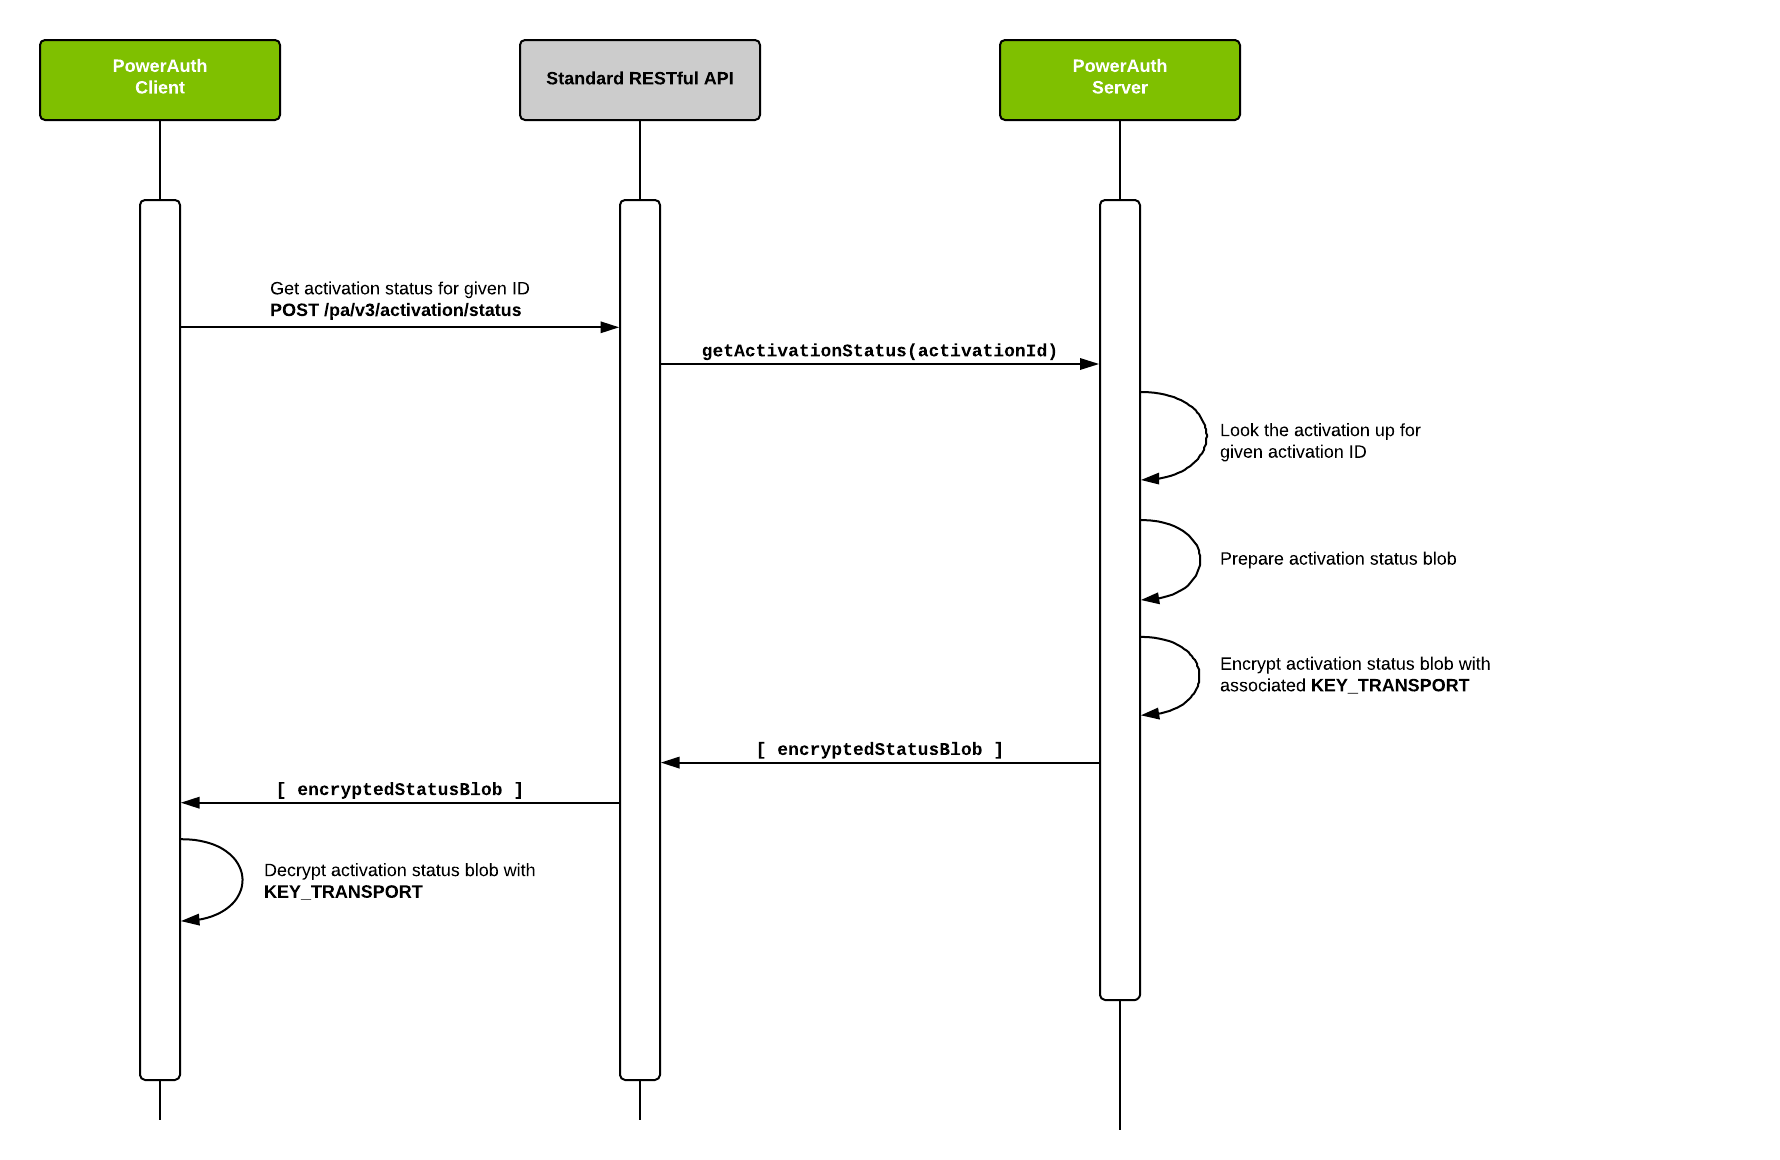
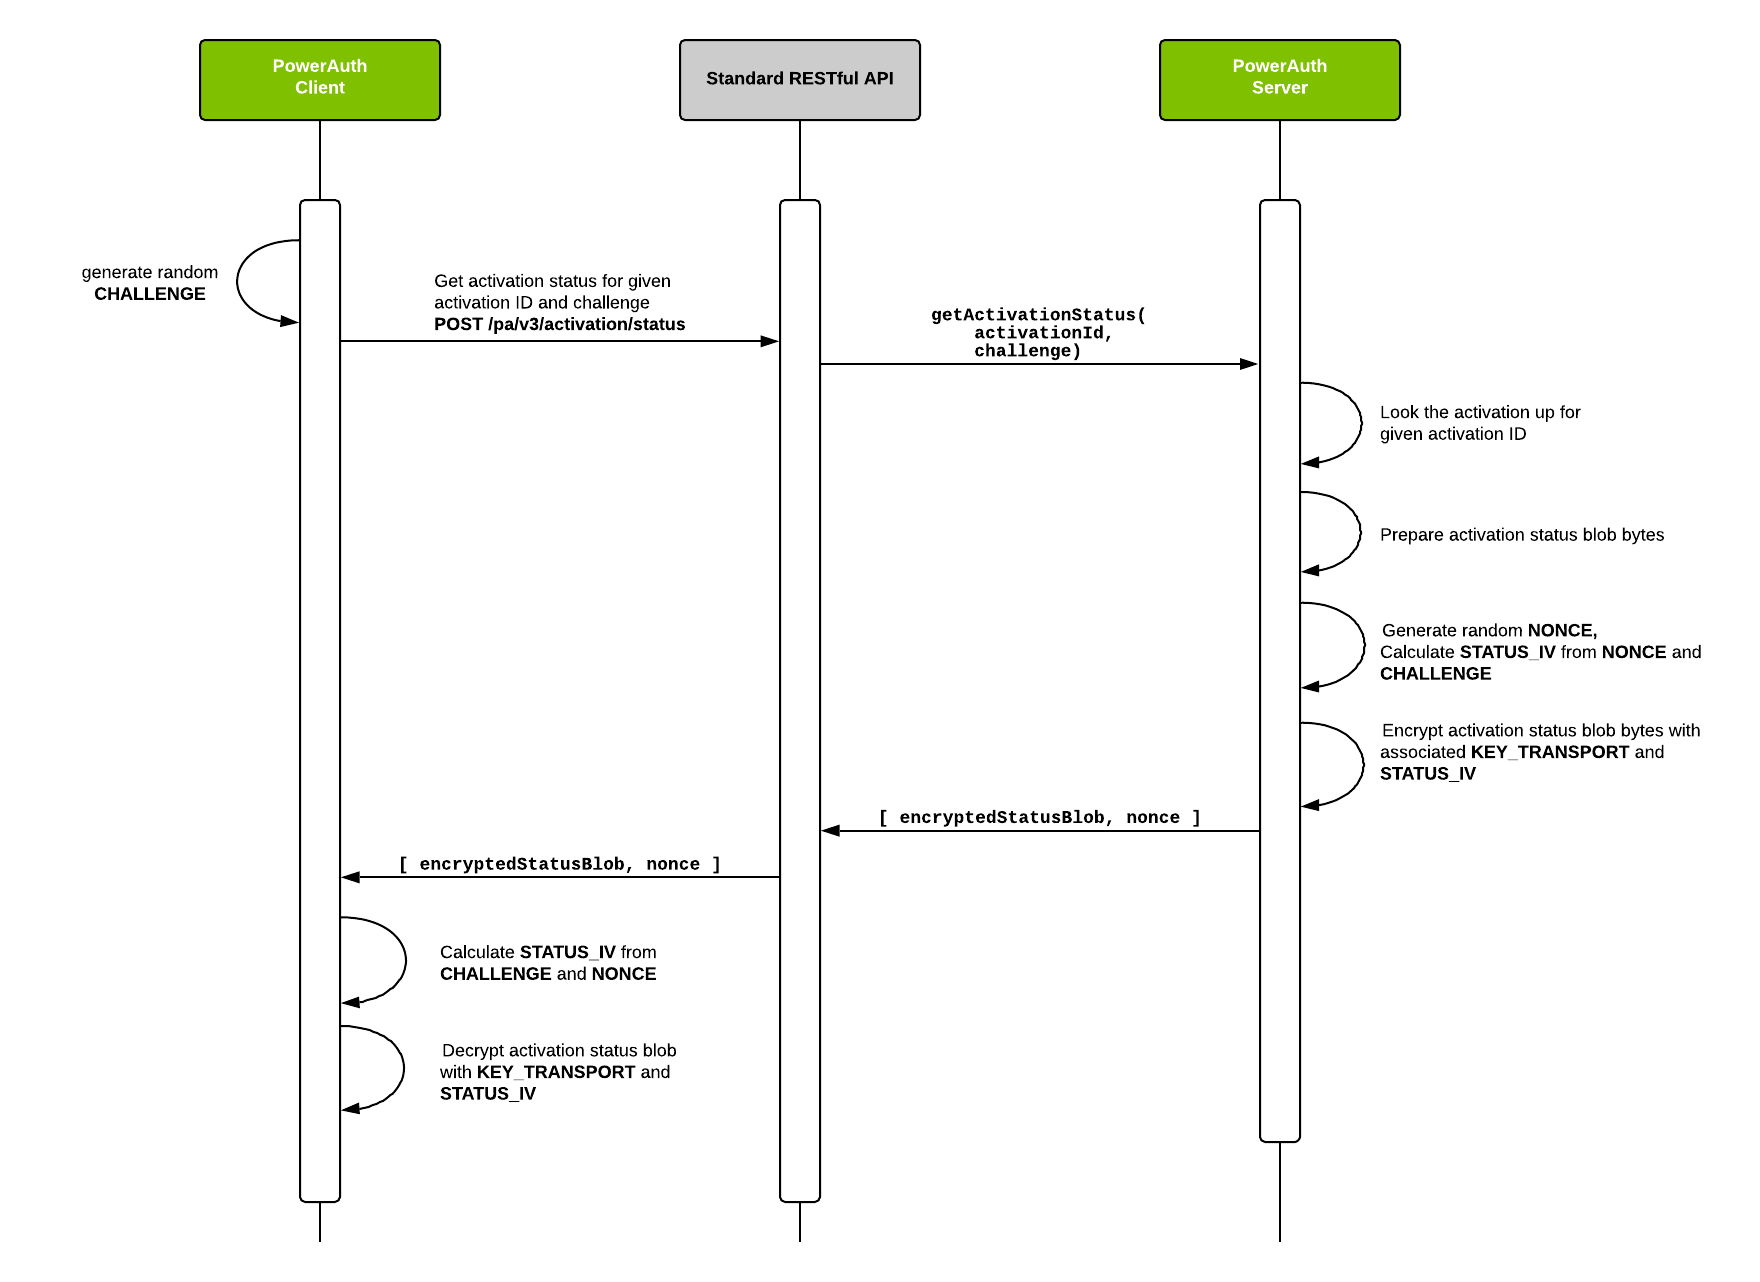
Fix #291: Added V3.1 protocol documentation

diff --git a/docs/Computing-and-Validating-Signatures.md b/docs/Computing-and-Validating-Signatures.md
@@ -18,41 +18,67 @@ PowerAuth signature is in principle multi-factor - it uses all keys as defined i
 - **3FA** - all three factors are used
 	- `possession_knowledge_biometry` - Signature uses three keys: a possession related key `KEY_SIGNATURE_POSSESSION`, then knowledge related key `KEY_SIGNATURE_KNOWLEDGE`, and finally biometry related key `KEY_SIGNATURE_BIOMETRY`.
 
-When using more than one factor / key, the keys are added additively in the signature algorithm, so that the factors can be validated individually. The resulting PowerAuth signature is a sequence of one to three numeric strings with 8 digits (each sequence is separated by "-" character) that is obtained in following manner:
+When using more than one factor / key, the keys are added additively in the signature algorithm, so that the factors can be validated individually. The resulting PowerAuth signature can be then represented in two different formats:
+
+1. For online validation, PowerAuth signature is one Base64 string, which length depends on the number of factors involved in the calculation (16, 32 or 48 bytes encoded in Base64) 
+1. For offline validation purposes, PowerAuth signature is a sequence of one to three numeric strings with 8 digits (each sequence is separated by “-“ character)
+
+Both formats share the same core algorithm to calculate the signature components:
 
 ```java
 /**
- * Compute the signature for given data using provided keys and current counter.
+ * Compute the signature components for given data using provided keys and current counter.
  * @param data - data to be signed
  * @param signatureKey - array of symmetric keys used for signature
  * @param CTR_DATA - hash based counter
  */
-public String computeSignature(byte[] data, List<SecretKey> signatureKeys, byte[] CTR_DATA) {
+List<byte[]> computeSignatureComponents(byte[] data, List<SecretKey> signatureKeys, byte[] CTR_DATA) {
+    // ... compute signature components
+    List<byte[]> signatureComponents = new ArrayList<byte[]>();
+    for (int i = 0; i < signatureKeys.size(); i++) {
+        byte[] KEY_SIGNATURE = KeyConversion.secretKeyFromBytes(signatureKey.get(0));
+        byte[] KEY_DERIVED = Mac.hmacSha256(KEY_SIGNATURE, CTR_DATA);
 
-	// ... compute signature components
-	String[] signatureComponents = new String[signatureKeys.size()];
-	for (int i = 0; i < signatureKeys.size(); i++) {
-		byte[] KEY_SIGNATURE = KeyConversion.secretKeyFromBytes(signatureKey.get(0));
-		byte[] KEY_DERIVED = Mac.hmacSha256(KEY_SIGNATURE, CTR_DATA);
+        // ... compute signature key using more than one keys, at most 2 extra keys
+        // ... this skips the key with index 0 when i == 0
+        for (int j = 0; j < i; j++) {
+            KEY_SIGNATURE = KeyConversion.secretKeyFromBytes(signatureKey.get(j + 1));
+            KEY_DERIVED_CURRENT = Mac.hmacSha256(KEY_SIGNATURE, CTR_DATA);
+            KEY_DERIVED = Mac.hmacSha256(KEY_DERIVED_CURRENT, KEY_DERIVED);
+        }
+        // ... sign the data
+        byte[] SIGNATURE_COMPONENT = Mac.hmacSha256(KEY_DERIVED, DATA);
+        // ... keep it in the list
+        signatureComponents.add(SIGNATURE_COMPONENT);
+    }
+    return signatureComponents;
+}
+```
 
-		// ... compute signature key using more than one keys, at most 2 extra keys
-		// ... this skips the key with index 0 when i == 0
-		for (int j = 0; j < i; j++) {
-			KEY_SIGNATURE = KeyConversion.secretKeyFromBytes(signatureKey.get(j + 1));
-			KEY_DERIVED_CURRENT = Mac.hmacSha256(KEY_SIGNATURE, CTR_DATA);
-			KEY_DERIVED = Mac.hmacSha256(KEY_DERIVED_CURRENT, KEY_DERIVED);
-		}
+### Signing HTTP requests
 
-		// ... sign the data
-		byte[] SIGNATURE_LONG = Mac.hmacSha256(KEY_DERIVED, DATA);
+PowerAuth signature for online purposes can be obtained in following manner:
 
-		// ... decimalize the signature component
-		int signComponent = (TRUNCATE(SIGNATURE_LONG, 4) & 0x7FFFFFFF) % Math.pow(10,8);
-		signatureComponents[i] = String.valueOf(signComponent);
-	}
-
-	// ... join the signature component using "-" character.
-	return String.join("-", signatureComponents);
+```java
+/**
+ * Compute the signature for HTTP request purposes for given data using provided keys and current counter.
+ * @param data - data to be signed
+ * @param signatureKey - array of symmetric keys used for signature
+ * @param CTR_DATA - hash based counter
+ */
+String computeOnlineSignature(byte[] data, List<SecretKey> signatureKeys, byte[] CTR_DATA) {
+    // ... at first, calculate signature components
+    List<byte[]> signatureBinaryComponents = computeSignatureComponents(data, signatureKeys, CTR_DATA);  
+      
+    // ... now convert components into one Base64 string
+    byte[] signatureBytes = new byte[signatureKeys.size() * 16];
+    for (int i = 0; i < signatureComponents.size(); i++) {
+        byte[] SIGNATURE_COMPONENT = signatureBinaryComponents.get(i);
+        // ... append last 16 bytes from SIGNATURE_COMPONENT to signature bytes        
+        ByteUtils.copy(SIGNATURE_COMPONENT, 16, signatureBytes, i * 16, 16);
+    }
+    // ... final conversion to Base64
+	return Base64.encode(signatureBytes);
 }
 ```
 
@@ -63,10 +89,41 @@ X-PowerAuth-Authorization: PowerAuth
 	pa_activation_id="7a24c6e9-48e9-43c2-ab4a-aed6270e924d",
 	pa_application_key="Z19gyYaW5kb521fYWN0aXZ==",
 	pa_nonce="kYjzVBB8Y0ZFabxSWbWovY==",
-	pa_signature_type="possession_knowledge_biometry"
-	pa_signature="12345678-12345678-12345678",
-	pa_version="3.0"
+	pa_signature_type="possession_knowledge"
+	pa_signature="MDEyMzQ1Njc4OWFiY2RlZjAxMjM0NTY3ODlhYmNkZWY=",
+	pa_version="3.1"
 ```
+
+### Offline signature
+
+The computation of offline signature is similar, but the final string is more human readable and can be easily manually retyped: 
+
+```java
+/**
+ * Compute the offline signature for given data using provided keys and current counter.
+ * @param data - data to be signed
+ * @param signatureKey - array of symmetric keys used for signature
+ * @param CTR_DATA - hash based counter
+ */
+String computeOfflineSignature(byte[] data, List<SecretKey> signatureKeys, byte[] CTR_DATA) {
+    // ... at first, calculate signature components
+    List<byte[]> signatureBinaryComponents = computeSignatureComponents(data, signatureKeys, CTR_DATA);
+	
+	// ... compute signature components
+	String[] signatureComponents = new String[signatureKeys.size()];
+    for (int i = 0; i < signatureComponents.size(); i++) {
+        byte[] SIGNATURE_COMPONENT = signatureBinaryComponents.get(i);
+        // ... decimalize the signature component
+        int decimalized = (ByteUtils.getInt(ByteUtils.truncate(SIGNATURE_COMPONENT, 4)) & 0x7FFFFFFF) % Math.pow(10,8);
+        signatureStrings[i] = String.valueOf(decimalized);
+	}
+    // ... join the signature component using "-" character.
+    return String.join("-", signatureComponents);
+}
+```
+
+PowerAuth Client displays the signature on the screen and then the user has to manually retype that string into another PowerAuth powered application (e.g. typically to web application, connected to PowerAuth Server).
+
 ## Normalized Data for HTTP Requests
 
 Normalized data to be signed are built using the following procedure:
@@ -109,10 +166,10 @@ PowerAuth Server can validate the signature using the following mechanism:
 1. Compute the expected signature for obtained data and check if the expected signature matches the one sent with the client. Since the PowerAuth Client may be ahead with counter from PowerAuth Server, server should try couple extra indexes ahead:
 
 ```java
-// input: CTR, CTR_DATA, TOLERANCE, data and signatureKeys
+// input: CTR, CTR_DATA, CTR_LOOK_AHEAD, data and signatureKeys
 boolean VERIFIED = false
 byte[] CTR_DATA_ITER = CTR_DATA
-for (CRT_ITER = CTR; CTR_ITER++; CRT_ITER < CRT + TOLERANCE) {
+for (CRT_ITER = CTR; CTR_ITER++; CRT_ITER < CRT + CTR_LOOK_AHEAD) {
     //... compute signature for given CTR_DATA_ITER, data and signature keys (see the algorithm above)
     String SIGNATURE = computeSignature(data, signatureKeys, CTR_DATA_ITER);
     if (SIGNATURE.equals(SIGNATURE_PROVIDED) && !VERIFIED) {

diff --git a/docs/Activation-Status.md b/docs/Activation-Status.md
@@ -4,18 +4,43 @@ PowerAuth Client may need to check for an activation status, so that it can dete
 
 ## Flow of the Activation Status Check
 
-Checking for an activation status is simple. Client needs to prepare a HTTP request with an activation ID. No cryptography is required in this step - in principle, any client can ask for status of any activation ID. Server processes the request and sends back the response with activation status blob. Activation status blob is an encrypted binary blob that encodes activation status. Key `KEY_TRANSPORT` is used to encrypt the activation blob.
+Checking for an activation status is simple. Client needs to prepare a HTTP request with an activation ID and random `STATUS_CHALLENGE`. Server processes the request and sends back the response with activation status blob and random `STATUS_NONCE`. Activation status blob is an encrypted binary blob that encodes activation status. Key `KEY_TRANSPORT` and `STATUS_IV` is used to encrypt the activation blob.
 
 Following sequence diagram shows the activation status check in more detail.
 
 ![Check Activation Status](./resources/images/sequence_activation_status.png)
 
+## Status Blob Encryption
+
+1. Both, client and server calculate `KEY_TRANSPORT_IV` as:
+    ```java
+    SecretKey KEY_TRANSPORT_IV = KDF.derive(KEY_TRANSPORT, 3000)
+    ```
+1. Client choose random 16 bytes long `STATUS_CHALLENGE` and send that value to the server.
+1. Server choose random 16 bytes long `STATUS_NONCE` and calculates `STATUS_IV` as:
+   ```java
+   byte[] STATUS_NONCE = Generator.randomBytes(16)
+   SecretKey STATUS_CHALLENGE_KEY = KDF_INTERNAL.derive(KEY_TRANSPORT_IV, STATUS_CHALLENGE)
+   byte[] STATUS_IV = ByteUtils.xor(STATUS_NONCE, KeyConversion.getBytes(STATUS_CHALLENGE_KEY))
+   ```
+1. Server uses `KEY_TRANSPORT` as key and `STATUS_IV` as IV to encrypt the status blob:
+   ```java
+   encryptedStatusBlob = AES.encrypt(statusBlob, STATUS_IV, KEY_TRANSPORT, "AES/CBC/NoPadding")
+   ```
+1. Server sends `encryptedStatusBlob` and `STATUS_NONCE` as response to the client.   
+1. Client receives `encryptedStatusBlob` and `STATUS_NONCE` and calculates the same `STATUS_IV` and then decrypts the status data:
+   ```java
+   SecretKey STATUS_CHALLENGE_KEY = KDF_INTERNAL.derive(KEY_TRANSPORT_IV, STATUS_CHALLENGE)
+   byte[] STATUS_IV = ByteUtils.xor(STATUS_NONCE, KeyConversion.getBytes(STATUS_CHALLENGE_KEY))
+   byte[] statusBlob = AES.decrypt(encryptedStatusBlob, STATUS_IV, KEY_TRANSPORT, "AES/CBC/NoPadding")
+   ```
+   
 ## Status Blob Format
 
 When obtaining the activation status, application receives the binary status blob. Structure of the 32B long status blob is following:
 
 ```
-0xDEC0DED1 1B:${STATUS} 1B:${CURRENT_VERSION} 1B:${UPGRADE_VERSION} 6B:${RANDOM_NOISE} 1B:${FAIL_COUNT} 1B:${MAX_FAIL_COUNT} 1B:${RESERVED} 16B:${CTR_DATA}
+0xDEC0DED1 1B:${STATUS} 1B:${CURRENT_VERSION} 1B:${UPGRADE_VERSION} 6B:${RESERVED} 1B:${FAIL_COUNT} 1B:${MAX_FAIL_COUNT} 1B:${CTR_LOOK_AHEAD} 16B:${CTR_DATA}
 ```
 
 where:
@@ -29,19 +54,12 @@ where:
     - `0x04 - BLOCKED`
     - `0x05 - REMOVED`
 - `${CURRENT_VERSION}` - 1 byte representing current version of crypto protocol, it can be one of following values:
-    - `0x02` - PowerAuth protocol version 2.0
-    - `0x03` - PowerAuth protocol version 3.0
+    - `0x02` - PowerAuth protocol version `2.x`
+    - `0x03` - PowerAuth protocol version `3.x`
 - `${UPGRADE_VERSION}` - 1 byte representing maximum protocol version supported by the PowerAuth Server. The set of possible values is identical to `${CURRENT_VERSION}`
-- `${RANDOM_NOISE}` - Random 6 bytes. These bytes are reserved for the future, but also serves as a source of entropy for the transport (AES encrypted `cStatusBlob` will be different each time an endpoint is called).
+- `${RESERVED}` - 6 bytes reserved for the future use.
 - `${FAIL_COUNT}` - 1 byte representing information about the number of failed attempts at the moment.
 - `${MAX_FAIL_COUNT}` - 1 byte representing information about the maximum allowed number of failed attempts.
-- `${RESERVED}` - 1 byte reserved for the future usage.
+- `${CTR_LOOK_AHEAD}` - 1 byte representing constant for a look ahead window, used on the server to validate the signature.
 - `${CTR_DATA}` - 16 bytes containing current value of hash-based counter.
 
-For the purpose of a secure transport, the status blob is AES encrypted with `KEY_TRANSPORT`, like so:
-
-- `encryptedStatusBlob = AES.encrypt(statusBlob, ByteUtils.zeroBytes(32), KEY_TRANSPORT, "AES/CBC/NoPadding")`
-
-PowerAuth Client can later decrypt the original status blob:
-
-- `statusBlob = AES.decrypt(encryptedStatusBlob, ByteUtils.zeroBytes(32), KEY_TRANSPORT, "AES/CBC/NoPadding")`

diff --git a/docs/List-of-used-keys.md b/docs/List-of-used-keys.md
@@ -16,3 +16,4 @@ Following keys are used in the PowerAuth cryptography scheme.
 | `KEY_SIGNATURE_BIOMETRY`    | KDF derived key from `KEY_MASTER_SECRET` | A key associated with the biometry factor, deduced using KDF derivation with `INDEX = 3`, `KEY_SIGNATURE_BIOMETRY = KDF.derive(KEY_MASTER_SECRET, INDEX)`, used for subsequent request signing |
 | `KEY_TRANSPORT`             | KDF derived key from `KEY_MASTER_SECRET` | A key deduced using KDF derivation with `INDEX = 1000`, `KEY_TRANSPORT = KDF.expand(KEY_MASTER_SECRET, INDEX)`, used for encrypted data transport. This key is used as master transport key for end-to-end encryption key derivation. |
 | `KEY_ENCRYPTION_VAULT`      | KDF derived key from `KEY_MASTER_SECRET` | A key deduced using KDF derivation with `INDEX = 2000`, `KEY_ENCRYPTION_VAULT = KDF.expand(KEY_MASTER_SECRET, 2000)`, used for encrypting a vault that stores the secret data, such as `KEY_DEVICE_PRIVATE`. |
+| `KEY_TRANSPORT_IV`          | KDF derived key from `KEY_TRANSPORT`     | A key deduced using KDF derivation with `INDEX = 3000`, `KEY_ENCRYPTION_IV = KDF.expand(KEY_TRANSPORT, 3000)`, used for derivation of initial vector, that encrypts activation status blob. |

diff --git a/docs/Standard-RESTful-API.md b/docs/Standard-RESTful-API.md
@@ -85,7 +85,7 @@ After receiving the response, PowerAuth Client decrypts both layers of response 
 
 - Headers:
     - `Content-Type: application/json`
-    - `X-PowerAuth-Encryption: PowerAuth version="3.0", application_key="UNfS0VZX3JhbmRvbQ=="`
+    - `X-PowerAuth-Encryption: PowerAuth version="3.1", application_key="UNfS0VZX3JhbmRvbQ=="`
 
 JSON request object before ECIES level 2 encryption:
 ```json
@@ -180,7 +180,8 @@ This endpoint also returns a `customObject` object with custom application speci
 ```json
 {
     "requestObject": {
-        "activationId": "c564e700-7e86-4a87-b6c8-a5a0cc89683f"
+        "activationId": "c564e700-7e86-4a87-b6c8-a5a0cc89683f",
+        "challenge": "MDEyMzQ1Njc4OWFiY2RlZg=="
     }
 }
 ```
@@ -197,6 +198,7 @@ This endpoint also returns a `customObject` object with custom application speci
     "responseObject": {
         "activationId": "c564e700-7e86-4a87-b6c8-a5a0cc89683f",
         "encryptedStatusBlob": "19gyYaW5ZhdGlvblkb521fYWN0aX9JRaAhbG9duZ==",
+        "nonce": "MDEyMzQ1Njc4OWFiY2RlZg==",
         "customObject": {
             "_comment": "Any object data, such as timestamp, service status info, etc."
         }

diff --git a/docs/Basic-definitions.md b/docs/Basic-definitions.md
@@ -69,3 +69,5 @@ These functions are used in the pseudo-codes:
   - `byte[] result = ByteUtils.concat(byte[] a, byte[] b)` - Concatenate two byte arrays - append `b` after `a`.
   - `byte[] result = ByteUtils.convert32Bto16B(byte[] bytes32, byte[] b)` - Converts 32b long byte array to 16b long array by xor-ing the first 16b with the second 16b, byte-by-byte.
   - `byte[] result = ByteUtils.subarray(byte[] bytes, int startIndex, int length)` - Obtain subarray of a byte array, starting with index `startIndex` with a given length.
+  - `byte[] result = ByteUtils.xor(byte[] A, byte[] B)` - Return `A` xor `B`, where `A` and `B` must have equal length.
+  - `ByteUtils.copy(byte[] source, int sourcePosition, byte[] destination, int destinationPosition, int length)` - Copies `length` of bytes from the specified source array of bytes, beginning at the specified position, to the specified position of the destination array.

diff --git a/docs/End-To-End-Encryption.md b/docs/End-To-End-Encryption.md
@@ -140,7 +140,7 @@ ECIES in application scope has following configuration of parameters:
 
 HTTP header example:
 ```
-X-PowerAuth-Encryption: PowerAuth version="3.0", application_key="UNfS0VZX3JhbmRvbQ=="
+X-PowerAuth-Encryption: PowerAuth version="3.1", application_key="UNfS0VZX3JhbmRvbQ=="
 ```
 
 ### Activation scope
@@ -158,7 +158,7 @@ ECIES in activation scope has following configuration of parameters:
 
 HTTP header example:
 ```
-X-PowerAuth-Encryption: PowerAuth version="3.0", application_key="UNfS0VZX3JhbmRvbQ==", activation_id="c564e700-7e86-4a87-b6c8-a5a0cc89683f"
+X-PowerAuth-Encryption: PowerAuth version="3.1", application_key="UNfS0VZX3JhbmRvbQ==", activation_id="c564e700-7e86-4a87-b6c8-a5a0cc89683f"
 ```
 Note, that the header must not be added to the request, when ECIES encryption is combined with [PowerAuth Signature](./Computing-and-Validating-Signatures.md).
   

diff --git a/docs/MAC-Token-Based-Authentication.md b/docs/MAC-Token-Based-Authentication.md
@@ -76,7 +76,7 @@ X-PowerAuth-Token: PowerAuth token_id="${TOKEN_ID}"
     token_digest="${TOKEN_DIGEST}"
     nonce="${NONCE}"
     timestamp="${TIMESTAMP}"
-    version="3.0"
+    version="3.1"
 ```
 
 Transport representation of the HTTP header properties is following:
